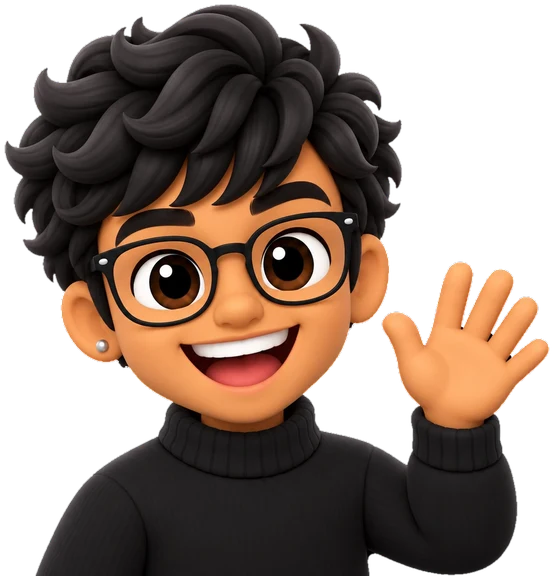
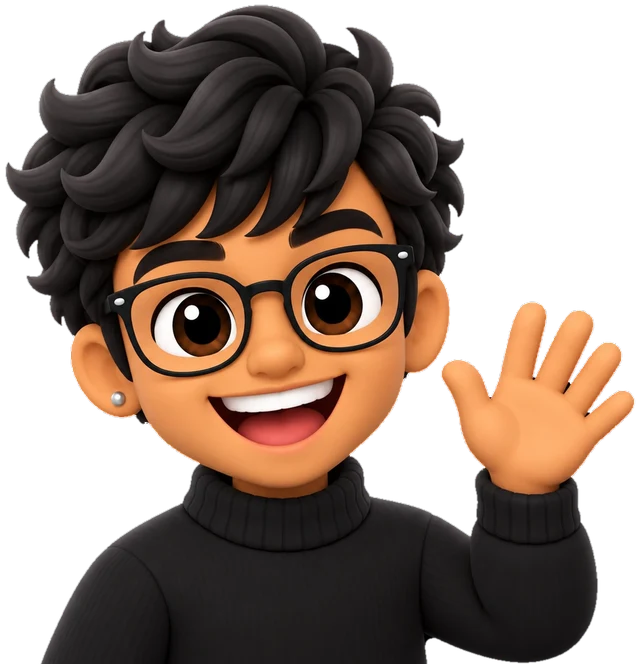
Put the original hero wave back
The rigged remake is reverted to the loop cut from the render itself.
tools/puppet.py stays, in case the rig is wanted again.

diff --git a/index.html b/index.html
@@ -97,7 +97,7 @@
                layer never composited into the page and the hero read as empty
                white. An image has no such layer, loops on its own without JS
                or an autoplay policy, and keeps its transparency. -->
-          <img src="media/hero-wave.webp?v=255" alt="" width="560" height="580" />
+          <img src="media/hero-wave.webp?v=256" alt="" width="560" height="580" />
         </figure>
       </div>
 
